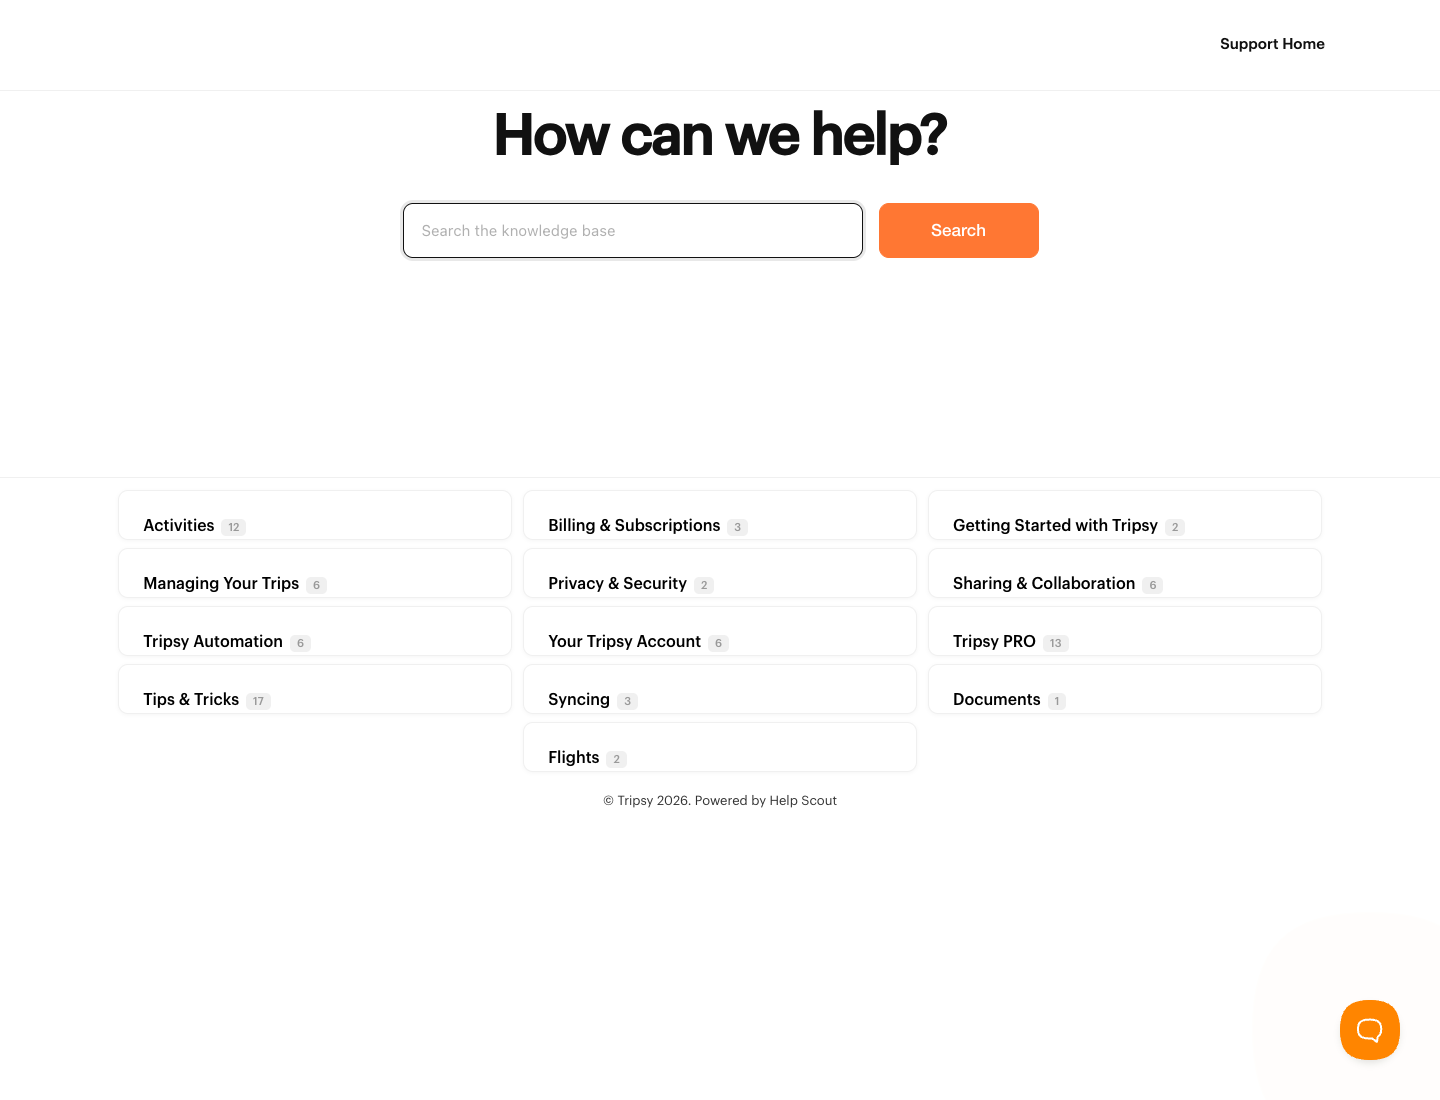
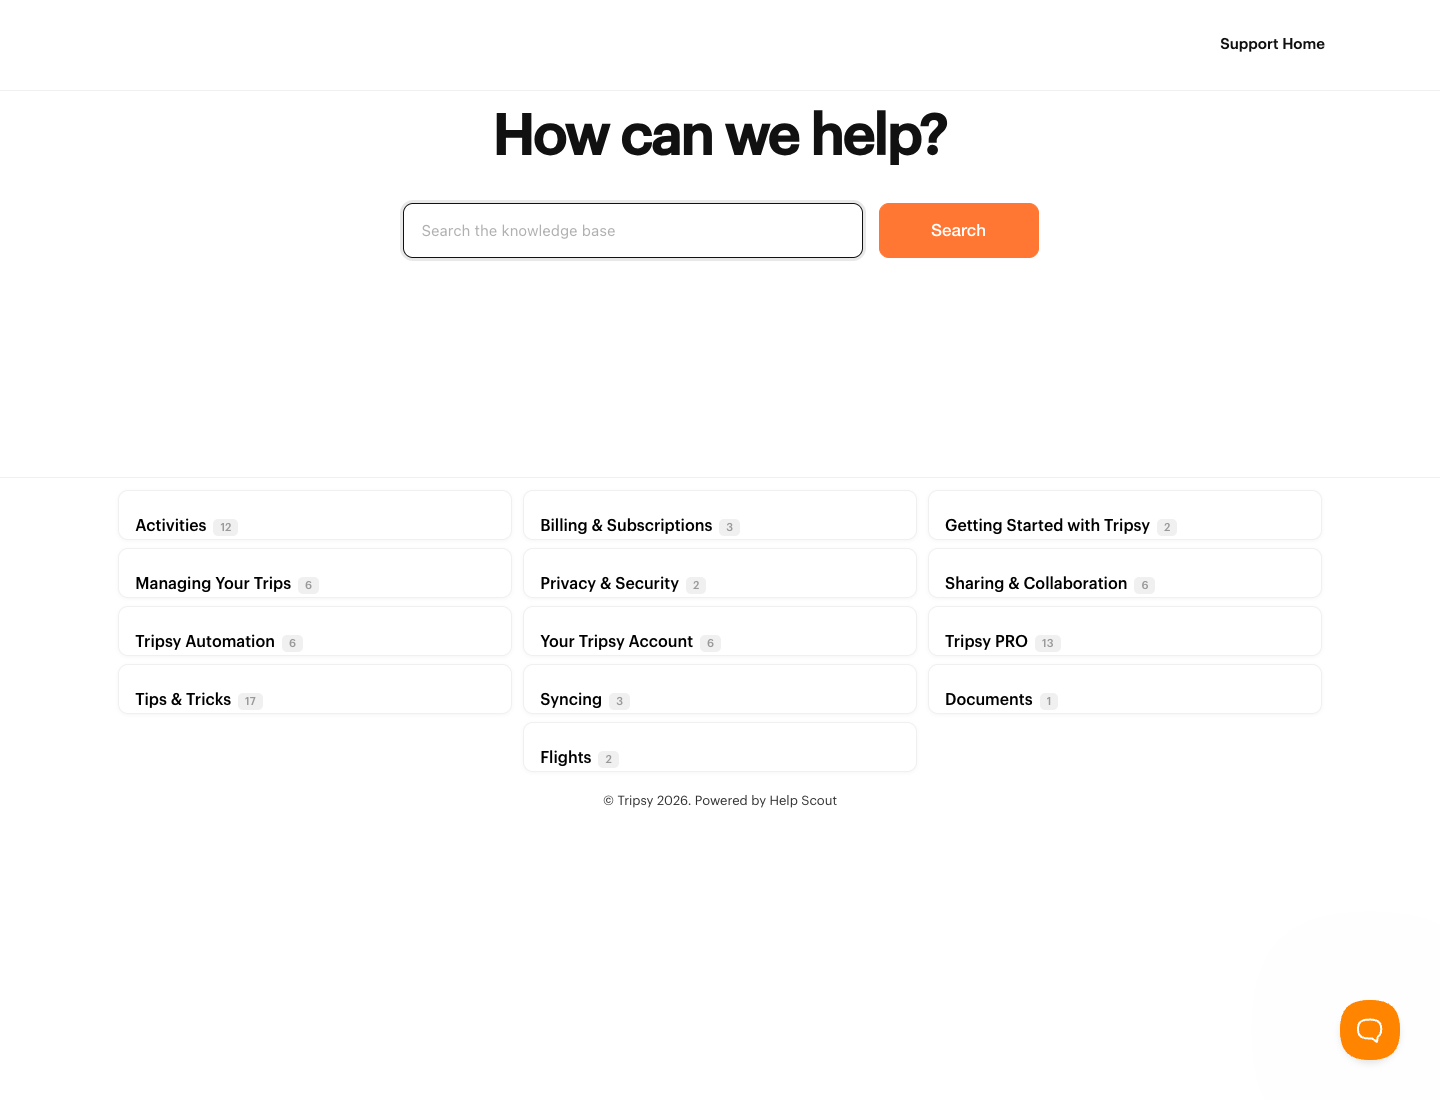
Tighten category card title inset

diff --git a/custom.css b/custom.css
@@ -1666,7 +1666,7 @@ a.category.category {
   margin: 0 4px 8px !important;
   min-height: 0 !important;
   overflow: hidden !important;
-  padding: 24px !important;
+  padding: 24px 16px !important;
   text-align: left !important;
   transition: transform 0.15s ease, box-shadow 0.15s ease, background-color 0.15s ease !important;
 }